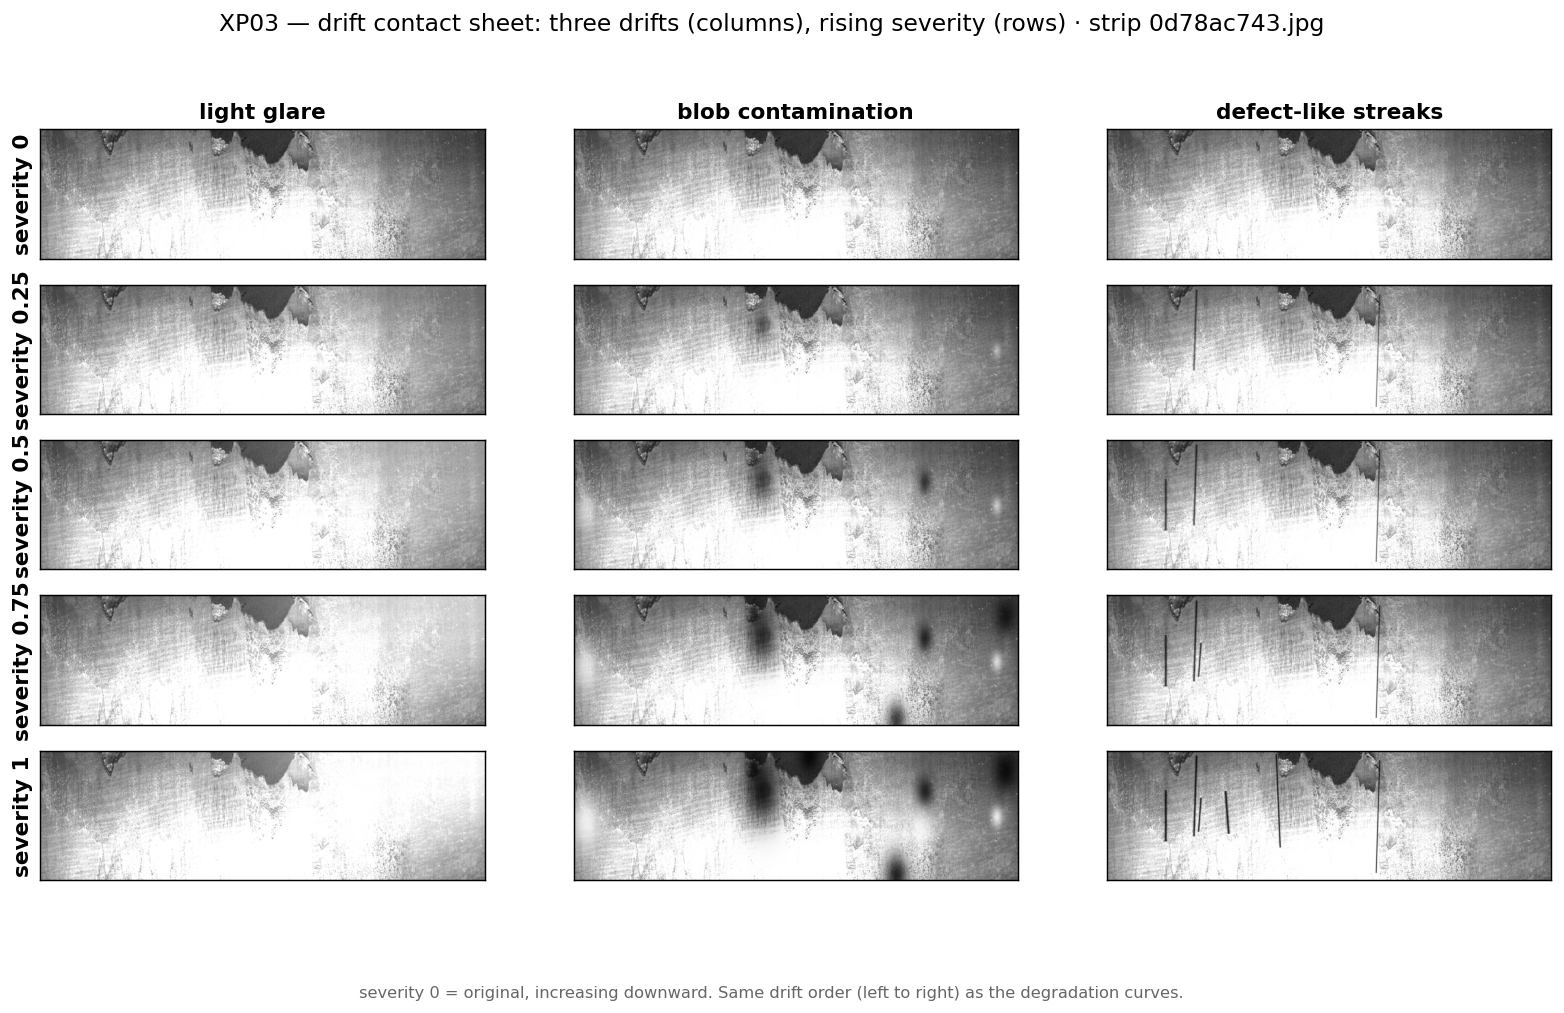
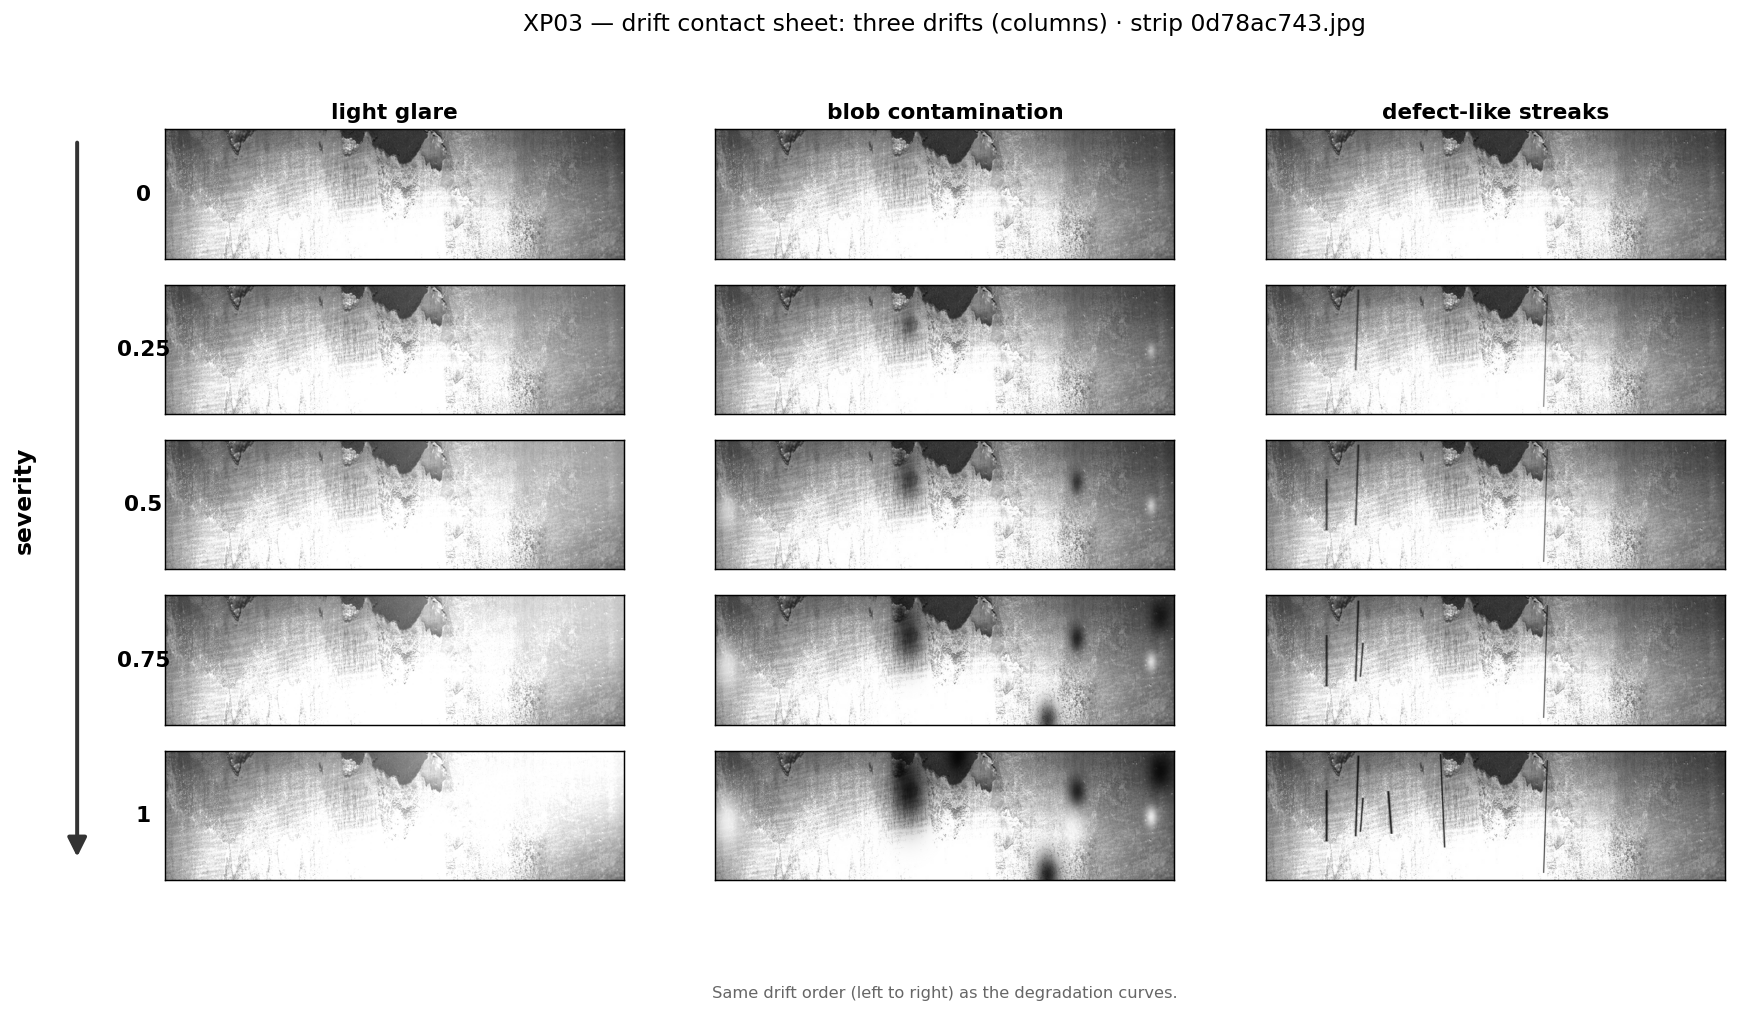
XP03: cleaner clean-strip, severity arrow + numeric row labels
Use a smooth uniform clean strip (74e586515) for the false-alarm overlay. Both
the contact sheet and the clean-detection figure now show severity as a downward
arrow on the left with just the number per row, instead of repeating 'severity X'.

diff --git a/experiments/xp03_drift/contact_sheet.py b/experiments/xp03_drift/contact_sheet.py
@@ -29,6 +29,17 @@ LABELS = {"light_corner": "light glare", "marks": "blob contamination",
 PREFERRED = "0d78ac743.jpg"       # bright strip, visible class-4 defect, no dark border
 
 
+def _severity_arrow(fig) -> None:
+    """A downward 'severity' arrow on the far left; rows are labelled with just the number."""
+    import matplotlib.patches as mpatches
+    fig.subplots_adjust(left=0.10)
+    fig.text(0.028, 0.5, "severity", rotation=90, va="center", ha="center", fontsize=13,
+             fontweight="bold")
+    fig.add_artist(mpatches.FancyArrowPatch(
+        (0.055, 0.87), (0.055, 0.13), transform=fig.transFigure,
+        arrowstyle="-|>", mutation_scale=22, lw=2.2, color="#333"))
+
+
 def main() -> int:
     # a bright defective strip, so the drifts are clearly visible against a real defect
     index = load_index()
@@ -48,12 +59,13 @@ def main() -> int:
             ax.set_xticks([]); ax.set_yticks([])
             if r == 0:
                 ax.set_title(LABELS[kind], fontsize=12, fontweight="bold")
-        axes[r, 0].set_ylabel(f"severity {s:g}", fontsize=12, fontweight="bold")
-    fig.suptitle(f"XP03 — drift contact sheet: three drifts (columns), rising severity "
-                 f"(rows) · strip {iid}", fontsize=13, y=1.0)
-    fig.text(0.5, -0.01, "severity 0 = original, increasing downward. Same drift order "
-             "(left to right) as the degradation curves.", ha="center", fontsize=9,
-             color="#666")
+        axes[r, 0].set_ylabel(f"{s:g}", fontsize=12, fontweight="bold", rotation=0,
+                              labelpad=12, va="center")
+    _severity_arrow(fig)
+    fig.suptitle(f"XP03 — drift contact sheet: three drifts (columns) · strip {iid}",
+                 fontsize=13, y=1.0)
+    fig.text(0.5, -0.01, "Same drift order (left to right) as the degradation curves.",
+             ha="center", fontsize=9, color="#666")
     os.makedirs(FIG_DIR, exist_ok=True)
     out = os.path.join(FIG_DIR, "xp03_contact_sheet.png")
     fig.savefig(out, dpi=130, bbox_inches="tight")

diff --git a/experiments/xp03_drift/clean_detection.py b/experiments/xp03_drift/clean_detection.py
@@ -30,9 +30,20 @@ from lib.severstal import CLASS_IDS, ROOT, TRAIN_IMG_DIR, load_split  # noqa: E4
 FIG_DIR = os.path.join(ROOT, "results", "figures")
 CKPT = os.path.join(ROOT, "results/raw/xp01_ckpt/best.pt")
 BASELINE = os.path.join(ROOT, "results/xp01_baseline.json")
-CLEAN = "8becd4279.jpg"          # bright, genuinely clean holdout strip
+CLEAN = "74e586515.jpg"          # smooth, uniform, genuinely clean holdout strip
 LABELS = {"light_corner": "light glare", "marks": "blob contamination",
           "streaks": "defect-like streaks"}
+
+
+def _severity_arrow(fig) -> None:
+    """A downward 'severity' arrow on the far left; rows labelled with just the number."""
+    import matplotlib.patches as mpatches
+    fig.subplots_adjust(left=0.10)
+    fig.text(0.028, 0.5, "severity", rotation=90, va="center", ha="center", fontsize=13,
+             fontweight="bold")
+    fig.add_artist(mpatches.FancyArrowPatch(
+        (0.055, 0.87), (0.055, 0.13), transform=fig.transFigure,
+        arrowstyle="-|>", mutation_scale=22, lw=2.2, color="#333"))
 
 
 @torch.no_grad()
@@ -81,7 +92,9 @@ def main() -> int:
                         fontsize=10, fontweight="bold", va="top")
             if r == 0:
                 ax.set_title(LABELS[kind], fontsize=12, fontweight="bold")
-        axes[r, 0].set_ylabel(f"severity {s:g}", fontsize=12, fontweight="bold")
+        axes[r, 0].set_ylabel(f"{s:g}", fontsize=12, fontweight="bold", rotation=0,
+                              labelpad=12, va="center")
+    _severity_arrow(fig)
     fig.suptitle(f"XP03 — a CLEAN strip: does drift make the model see a defect? "
                  f"(red = false detection) · strip {iid}", fontsize=13, y=1.0)
     fig.text(0.5, -0.01, "Severity 0 (top) is the untouched clean strip — it should be "
